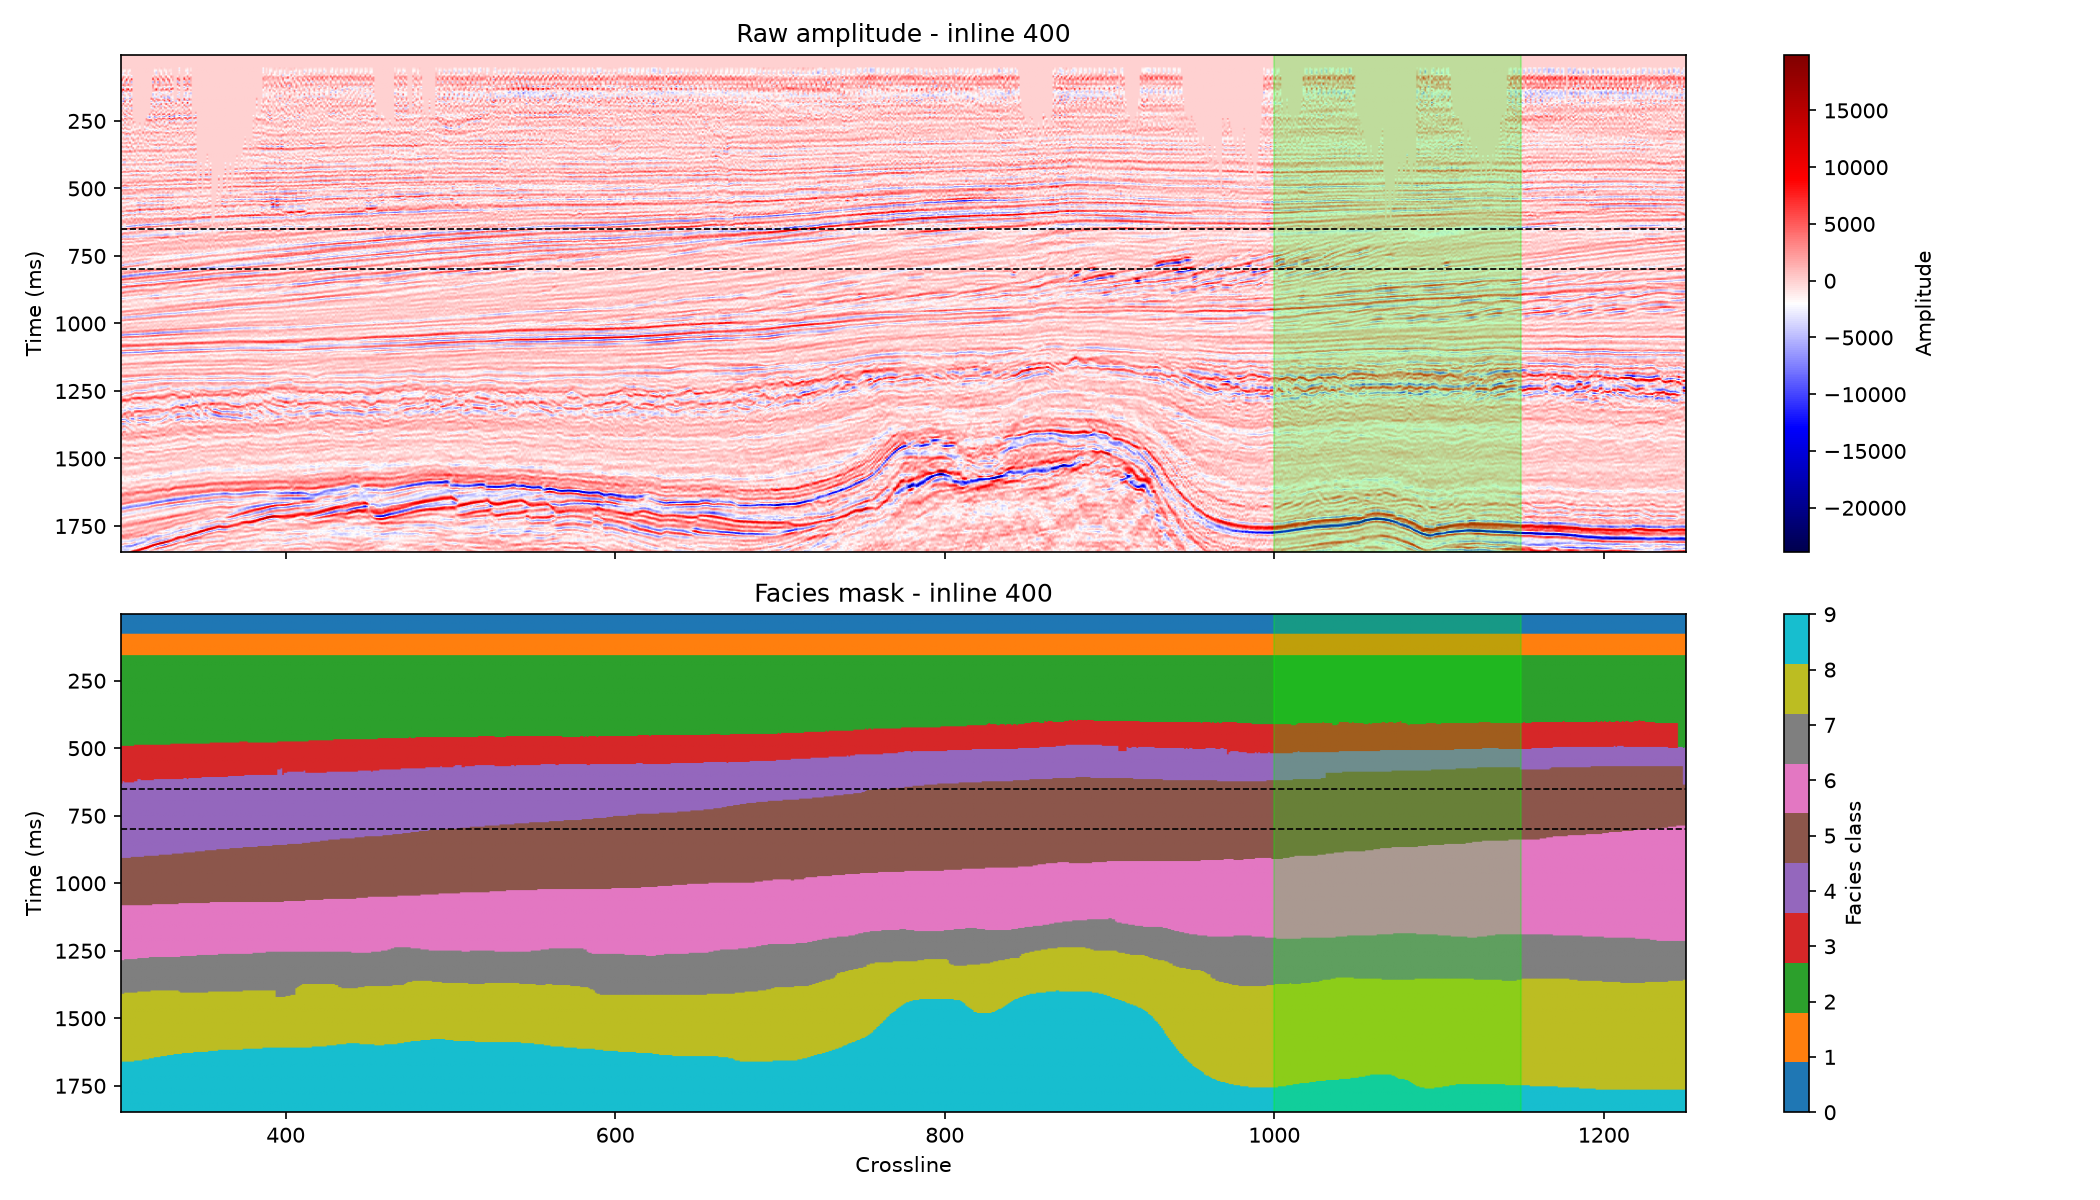
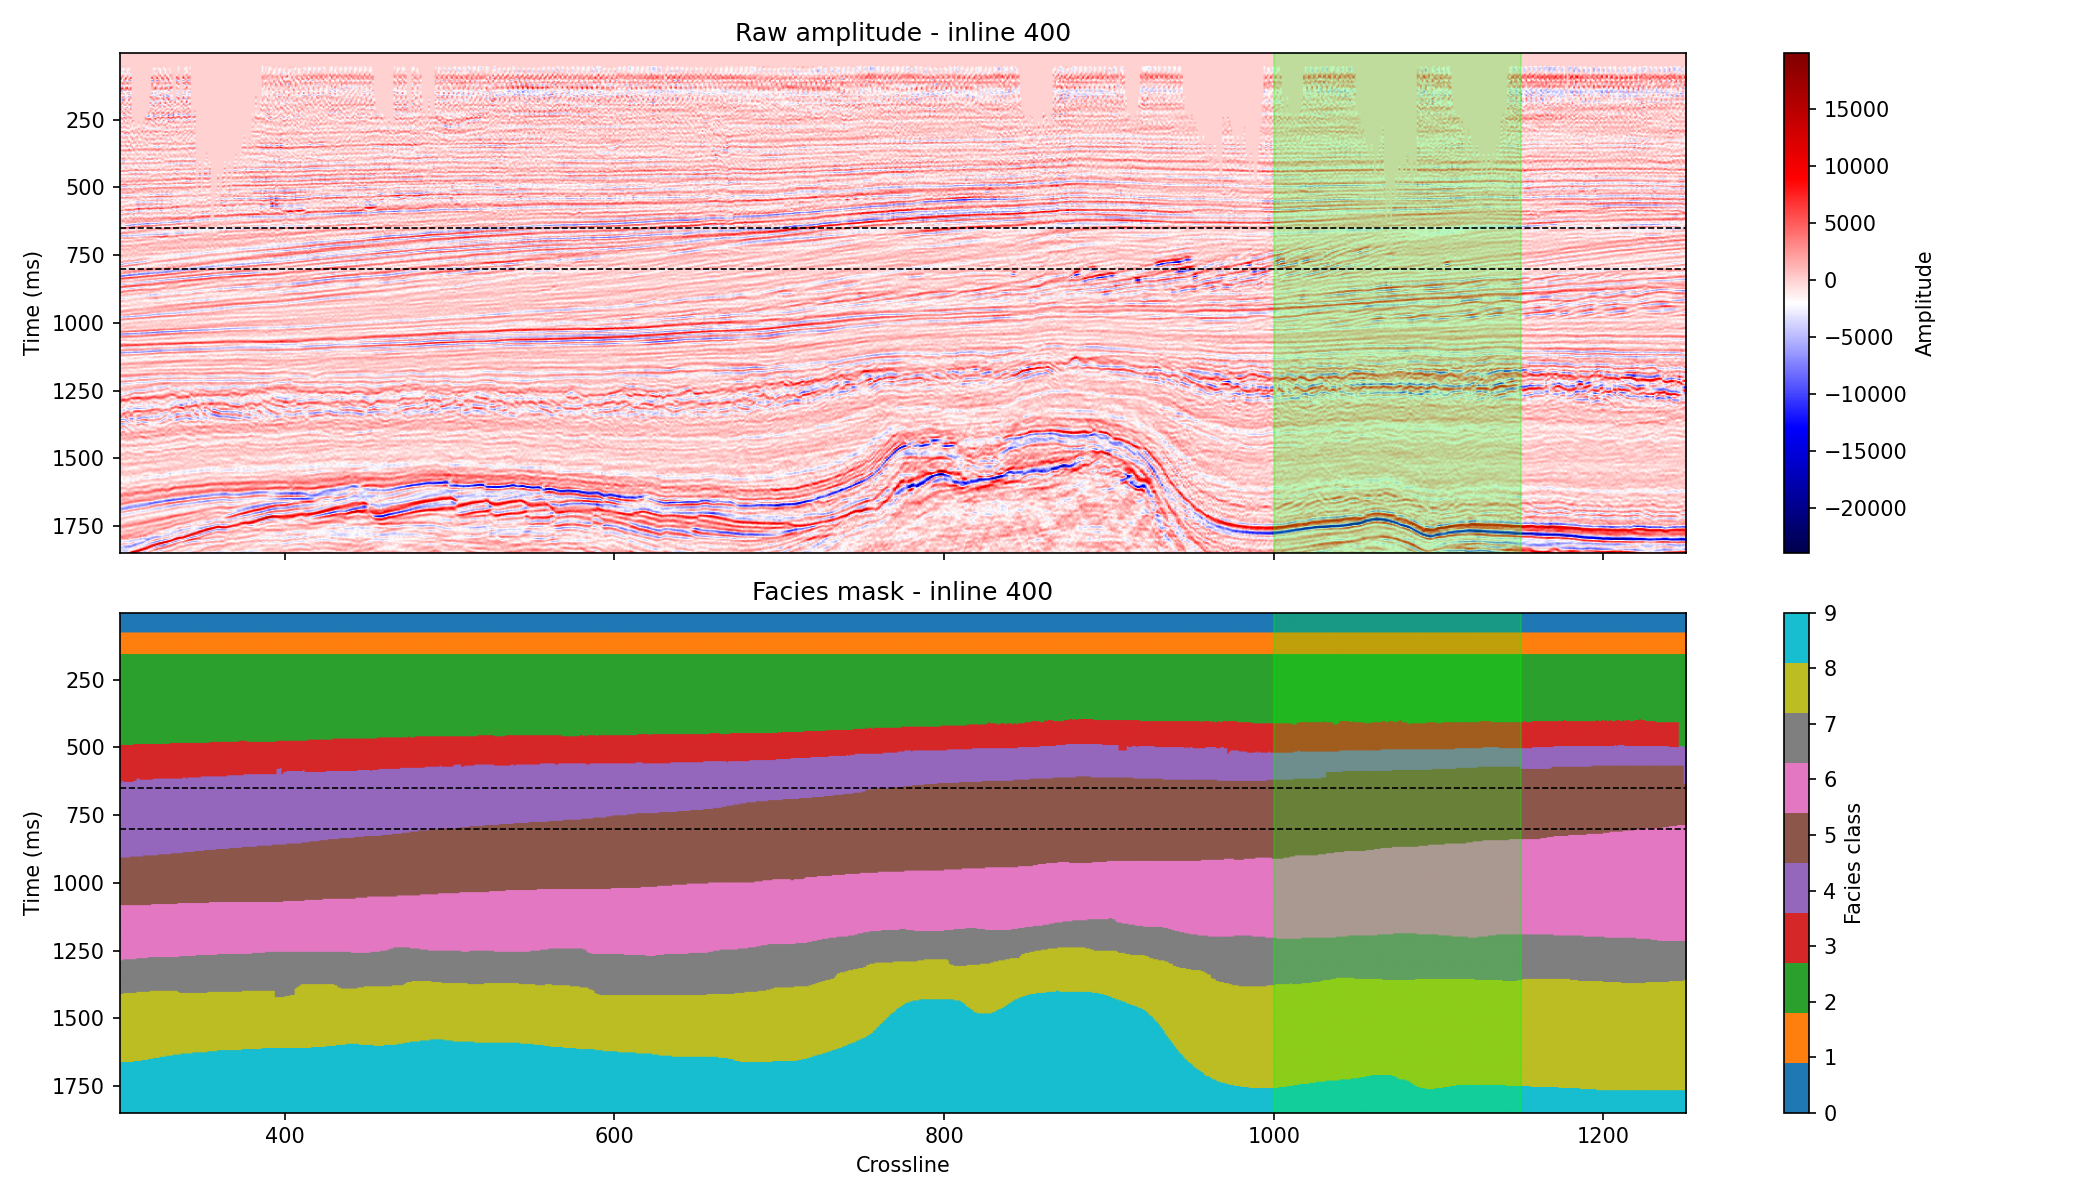
widened FOOTPRINT_RADIUS_RANGE from (10,15) to (6,15) agreed with Aziz as a common range, trace diameter scales (12-30), regenerated dataset / notebook, add new figures from rerun

diff --git a/src/dhi_pipeline/scenarios.py b/src/dhi_pipeline/scenarios.py
@@ -36,10 +36,13 @@ TIER_RANGES = {
                            flat_spot_prob=0.70, polarity_reversal_prob=0.70),
 }
 
-FOOTPRINT_RADIUS_RANGE = (10, 15)  # traces, both il and xl radius sampled independently
+FOOTPRINT_RADIUS_RANGE = (6, 15)  # traces, both il and xl radius sampled independently
 # F4: shrunk from (30, 80) to converge with Aziz's pipeline scale (~0.28-0.40km
 # footprints) and to fit comfortably inside the shrunk il_extent/xl_extent=96
 # patch (see dataset.py) - see fixes-2026-07-29.md / next-steps-2026-07-29.md.
+# Widened from (10, 15) to (6, 15) on 2026-08-10, agreed with Aziz as a common
+# range spanning both pipelines' scales (12-30 trace diameter) - see
+# colleague-notes-2026-08-09.md.
 
 
 def _sample_footprint(rng):
